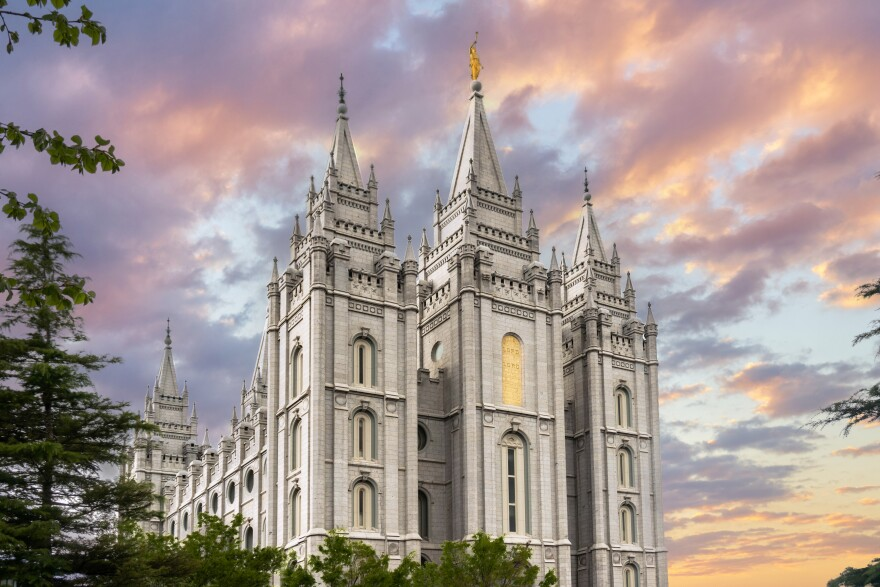
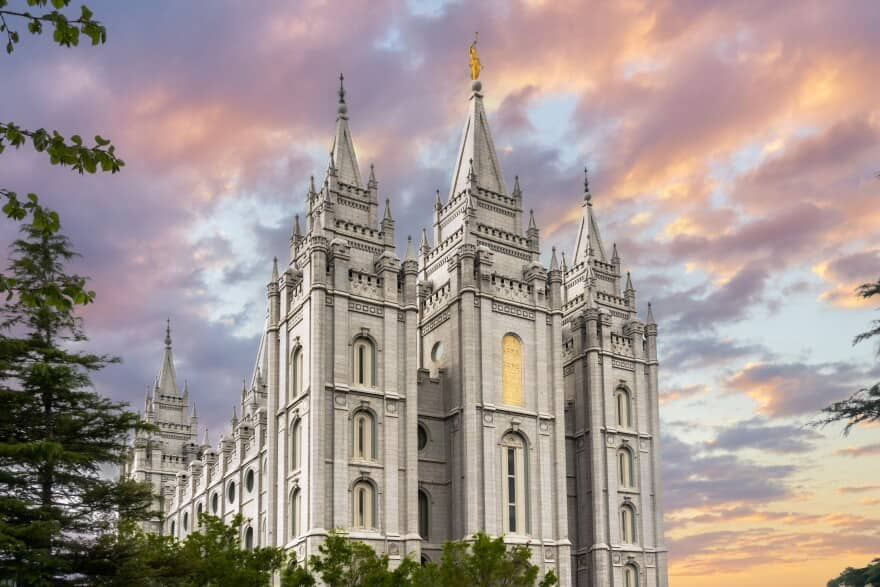
images uploaded

diff --git a/temples.html b/temples.html
@@ -95,13 +95,13 @@
       </figure>
  
       <figure>
-        <img src="images/temple-8.png"
+        <img src="images/temple-8.jpg"
              alt="Washington D.C. Temple" loading="lazy" />
         <figcaption>Washington D.C. Temple &mdash; Kensington, Maryland</figcaption>
       </figure>
  
       <figure>
-        <img src="images/temple-9.png"
+        <img src="images/temple-9.jpg"
              alt="Rome Italy Temple at night" loading="lazy" />
         <figcaption>Rome Italy Temple &mdash; Rome, Italy</figcaption>
       </figure>
